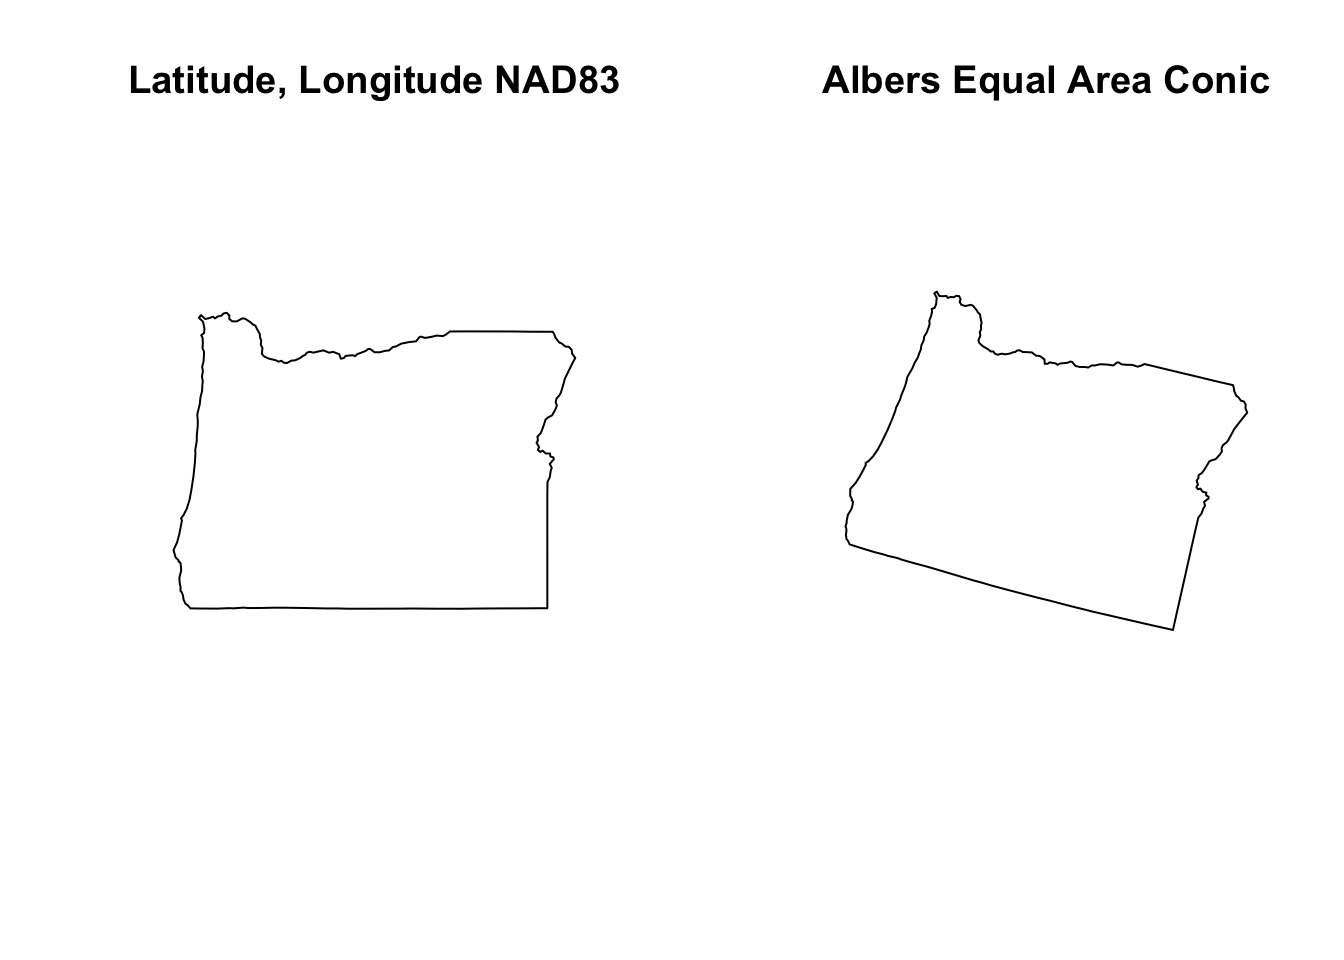
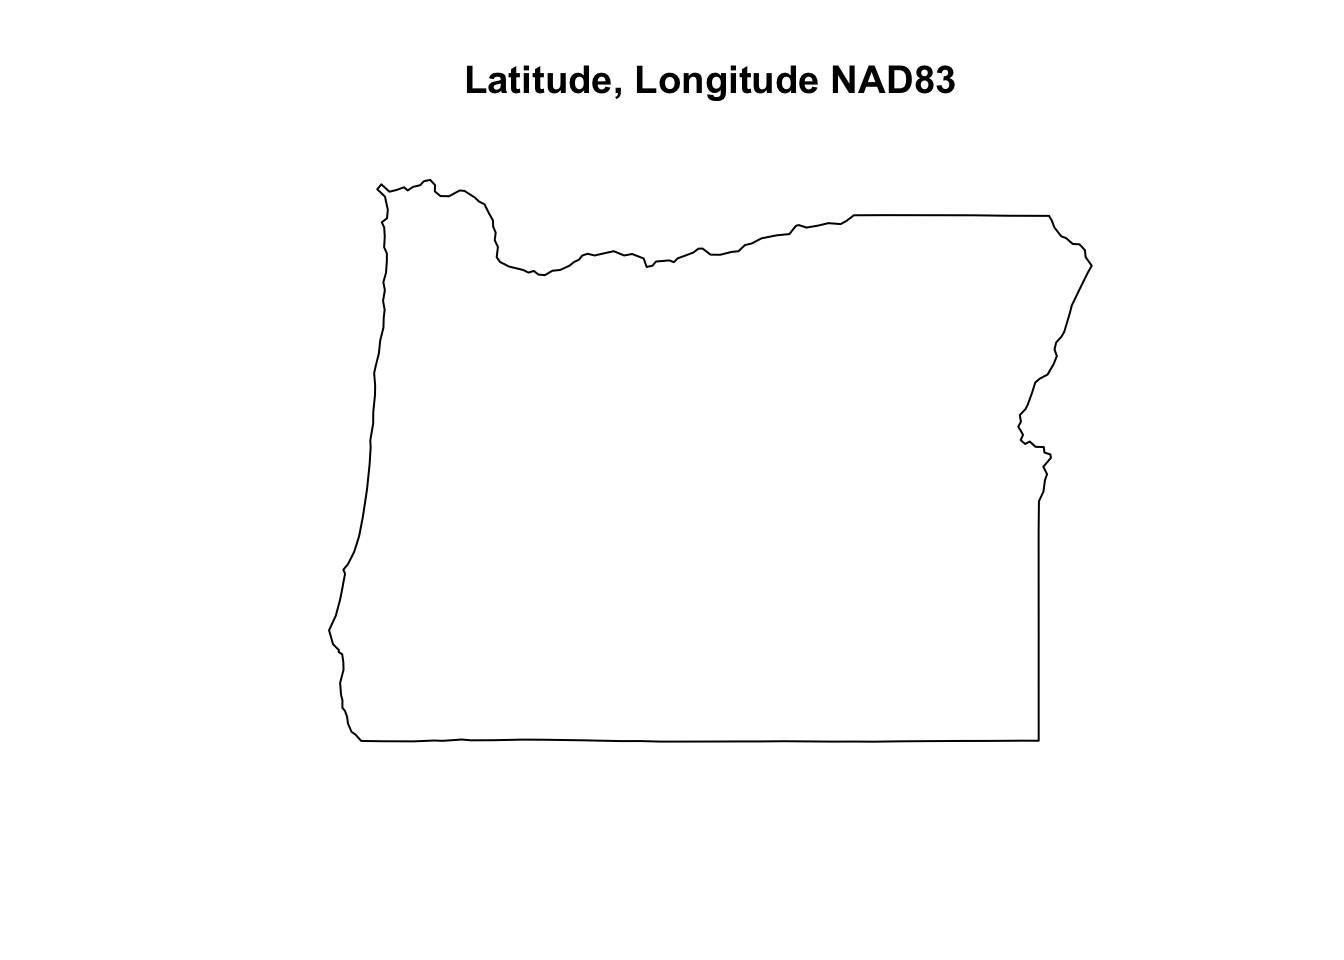
minor formatting to Lab3

diff --git a/docs/lab3_patch_design.html b/docs/lab3_patch_design.html
@@ -393,14 +393,13 @@ us.aea.proj &lt;- CRS(&quot;+proj=aea +lat_1=29.5 +lat_2=45.5 +lat_0=23 +lon_0=-
 # First let&#39;s make a shapefile of just Oregon from the entire US shapefile:
 or &lt;- uss[uss$NAME ==&quot;Oregon&quot;,] 
 
-# Make 2 plots, side by side
-par(mfrow=c(1,2))
 # Plot Oregon
-plot(or, main=&quot;Latitude, Longitude NAD83&quot;)
-# Practice projecting, and plot again - 
+plot(or, main=&quot;Latitude, Longitude NAD83&quot;)</code></pre>
+<p><img src="lab3_patch_design_files/figure-html/unnamed-chunk-4-1.png" width="672" /></p>
+<pre class="r"><code># Practice projecting, and plot again - 
 or1&lt;-spTransform(or, us.aea.proj)
 plot(or1, main=&quot;Albers Equal Area Conic&quot;)</code></pre>
-<p><img src="lab3_patch_design_files/figure-html/unnamed-chunk-4-1.png" width="672" /></p>
+<p><img src="lab3_patch_design_files/figure-html/unnamed-chunk-4-2.png" width="672" /></p>
 <pre class="r"><code># Supposed you decide to use a rectangle instead of the Oregon polygon boundary.
 # Refer to the extent (min and max x and y) of the shapefile, &quot;or1&quot;
 summary(or1)
@@ -409,7 +408,7 @@ or2 &lt;- polygon_from_extent(raster::extent(-2294351,-1584307,2301475,2899476),
 # See how the or2 outlines to the polygon, &quot;or1&quot;
 plot(or2)
 plot(or1,add=T, col=&quot;blue&quot;)</code></pre>
-<p><img src="lab3_patch_design_files/figure-html/unnamed-chunk-4-2.png" width="672" /></p>
+<p><img src="lab3_patch_design_files/figure-html/unnamed-chunk-4-3.png" width="672" /></p>
 <p>Depending on your computer, these polygons will still be too big to extract NLCD quickly (when I run it on my laptop it takes about 5 mins, so you could try it but it may get hung up if you are knitting to PDF). Let’s try a smaller extent. If you wanted to subset out just a portion of Oregon, you could select 1 wildlife management unit. Here is a map of OR Fish &amp; Wildlife Units: <a href="https://www.dfw.state.or.us/resources/hunting/big_game/units/bigmap.asp" class="uri">https://www.dfw.state.or.us/resources/hunting/big_game/units/bigmap.asp</a>.</p>
 <p><strong>Repeat the same process as above, but with the management unit, Hood.</strong></p>
 <pre class="r"><code>if(! file.exists(&#39;mgmt.zip&#39;)){
@@ -429,8 +428,8 @@ unique(mgmt1$UNIT_NAME)
 # Select the HOOD Management Unit (where Mount Hood is).
 hood &lt;- mgmt1[mgmt$UNIT_NAME ==&quot;HOOD&quot;,] 
 ## See where it&#39;s located. Plotting and rendering may take a minute because these polygons are complex.
-plot(mgmt1)
-plot(hood,add=T,col=&quot;red&quot;, main=&quot;Hood Wildlife Management Unit, Oregon&quot;)</code></pre>
+plot(mgmt1,main=&quot;Hood Wildlife Management Unit, Oregon&quot;)
+plot(hood,add=T,col=&quot;red&quot;)</code></pre>
 <p><img src="lab3_patch_design_files/figure-html/unnamed-chunk-5-1.png" width="672" /></p>
 <p>Use the <code>get_nlcd</code> command from <code>FedData</code> to extract the NLCD data for this management unit. <code>FedData</code> does the cropping automatically using a shapefile or raster for “template”. If you run into errors you may need to check what the projection of hood_nlcd is.</p>
 <pre class="r"><code>?get_nlcd
